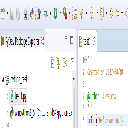
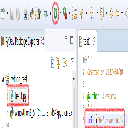
Update python note

Changed region(s): [[0.6562, 0.8438, 1.0, 1.0], [0.0312, 0.6562, 0.25, 0.8438], [0.4062, 0.0, 0.4688, 0.2188]]

diff --git a/python/note1.html b/python/note1.html
@@ -140,6 +140,47 @@
 
 
 
+<div id="sec1-3" class="sec4" >
+	<h3>PyDevでPythonのインタプリタを動かす</h3>
+	
+	<ol>
+	
+		<li>
+			コンソールビューを開く（Windows → Show View → Console)<br>
+			<br>
+		</li>
+	
+		<li>
+			コンソールビューの右上にある↓アイコンから PyDevConsole を選択する。<br>
+			<img src="img/note1/sec1-3a1.png"  /><br>
+			<br>
+		</li>
+	
+		<li>
+			いくつか選択肢があるが「Jython using VM running Eclipse consoke」にチェックを入れてOKボタンを押す。<br>
+			<img src="img/note1/thum/sec1-3a2.png" class="img_panel_x" /><br>
+			<br>
+		</li>
+		
+		<li>
+			以上でコンソール内をインタプリタとして動かすことができる。<br>
+			<img src="img/note1/sec1-3a3.png" class="img_panel_x" /><br>
+			<br>
+		</li>
+	</ol>
+	
+
+	
+	<br><time>2017-7-7</time>
+</div>
+
+
+
+
+
+
+
+
 <div id="sec1-0" class="sec4" style="display:none">
 	<h3>xxx</h3>
 	

diff --git a/python/index.html b/python/index.html
@@ -37,6 +37,7 @@
 <ol>
 	<li><a href="note1.html#sec1-1">WinPythonの入手</a></li>
 	<li><a href="note1.html#sec1-2">EclipseプラグインPyDevのインストールおよびインタプリタにWinpythonを設定</a></li>
+	<li><a href="note1.html#sec1-3">PyDevでPythonのインタプリタを動かす</a></li>
 </ol>
 
 
